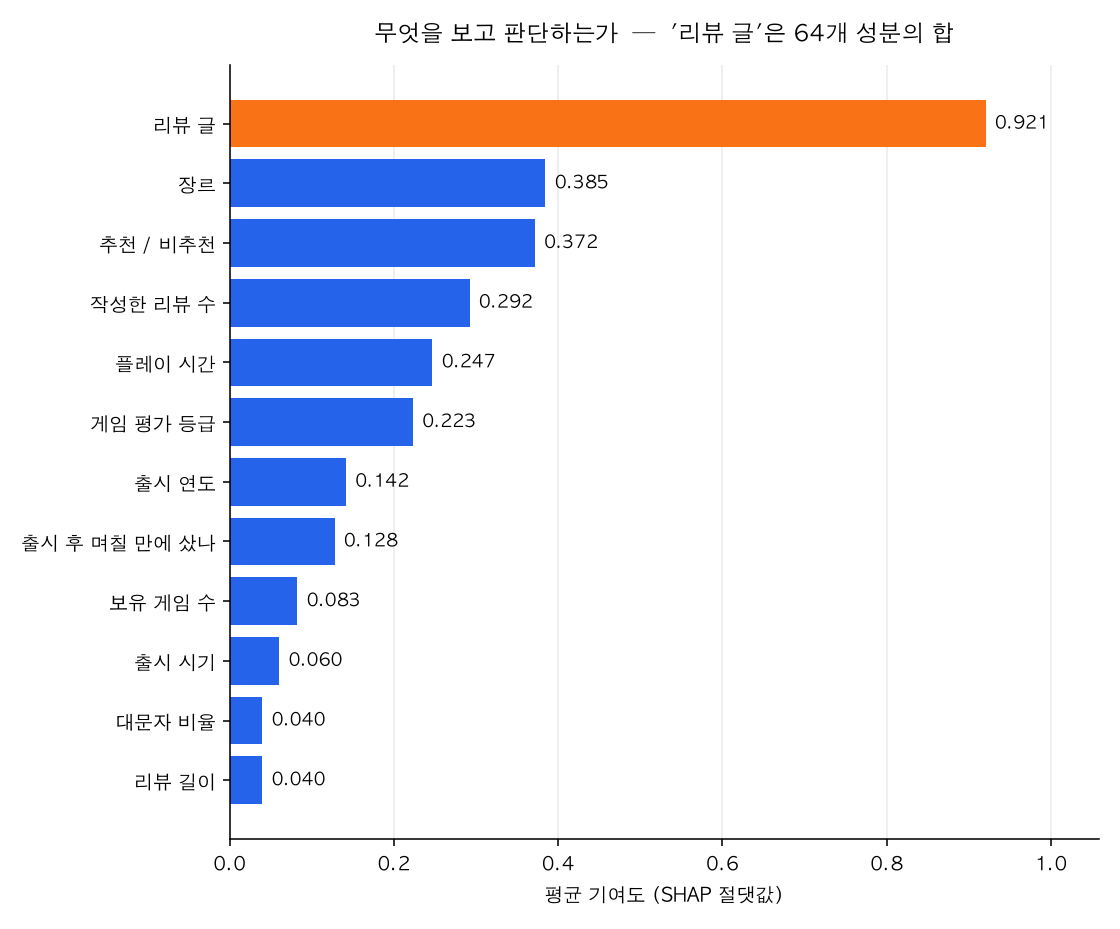
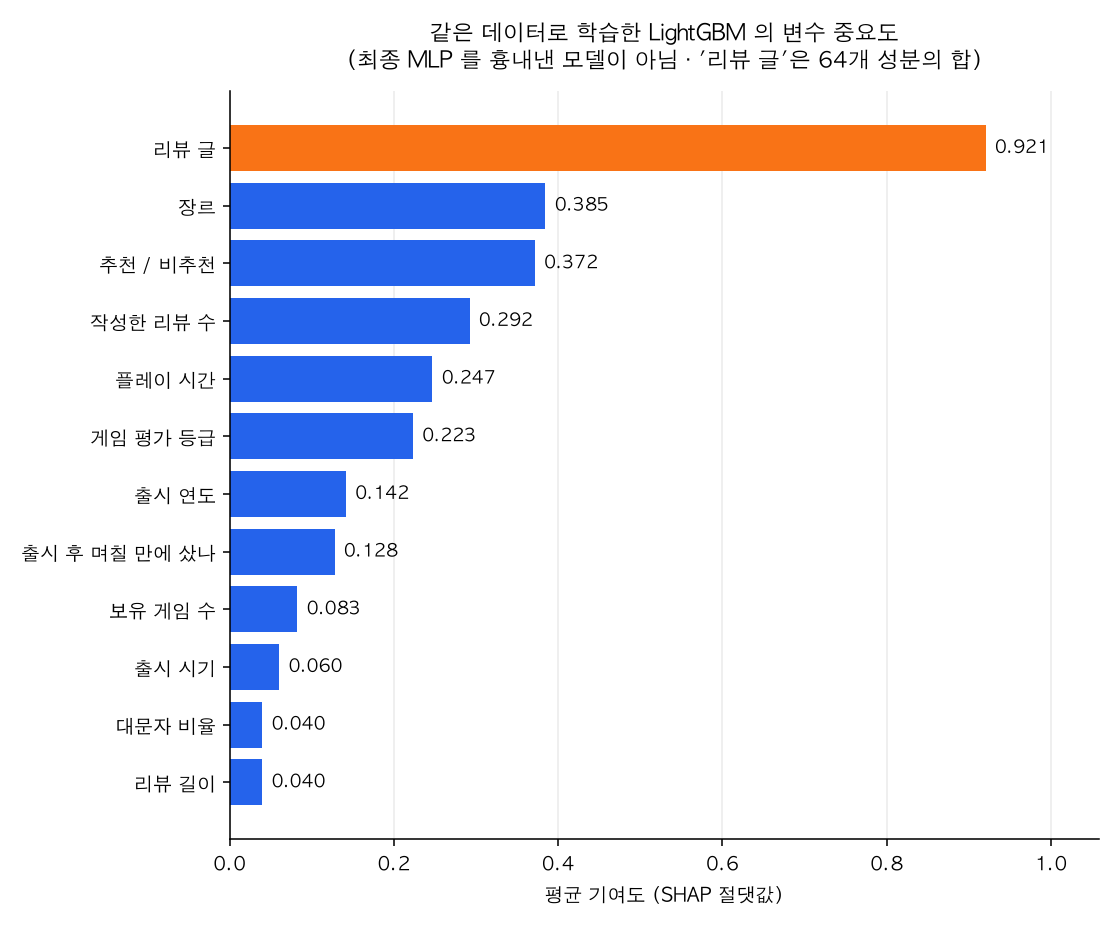
explain_dl.py 수정

Changed region(s): [[0.0, 0.0, 0.9375, 0.8741], [0.25, 0.8116, 0.2812, 0.8428]]

diff --git a/src/explain_dl.py b/src/explain_dl.py
@@ -152,8 +152,9 @@ def global_importance(X, top_n=12, save_fig=True):
         for i, val in enumerate(t.values):
             ax.text(val + t.max() * .012, i, f"{val:.3f}", va="center", fontsize=9)
         ax.set_xlabel("평균 기여도 (SHAP 절댓값)")
-        ax.set_title(f"무엇을 보고 판단하는가  —  '{EMB_GROUP}'은 {N_PCA}개 성분의 합",
-                     fontsize=12, pad=12)
+        ax.set_title("같은 데이터로 학습한 LightGBM 의 변수 중요도\n"
+                     f"(최종 MLP 를 흉내낸 모델이 아님 · '{EMB_GROUP}'은 {N_PCA}개 성분의 합)",
+                     fontsize=11.5, pad=12)
         ax.set_xlim(0, t.max() * 1.15)
         ax.grid(axis="x", alpha=.25); ax.set_axisbelow(True)
         for s in ("top", "right"): ax.spines[s].set_visible(False)
